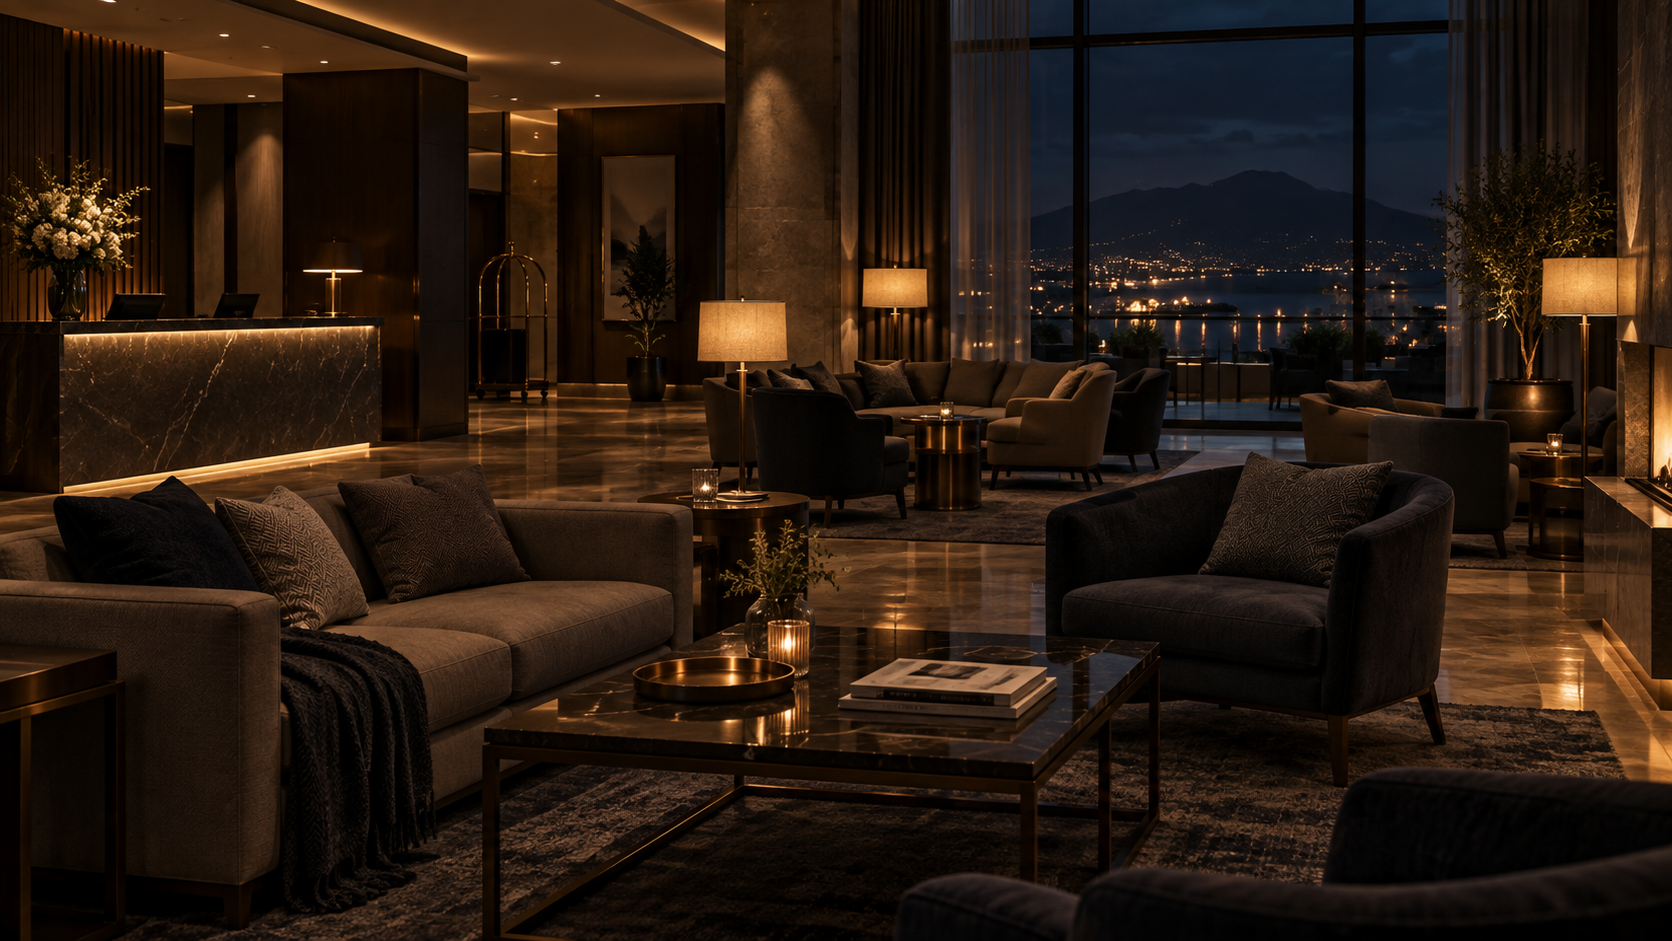
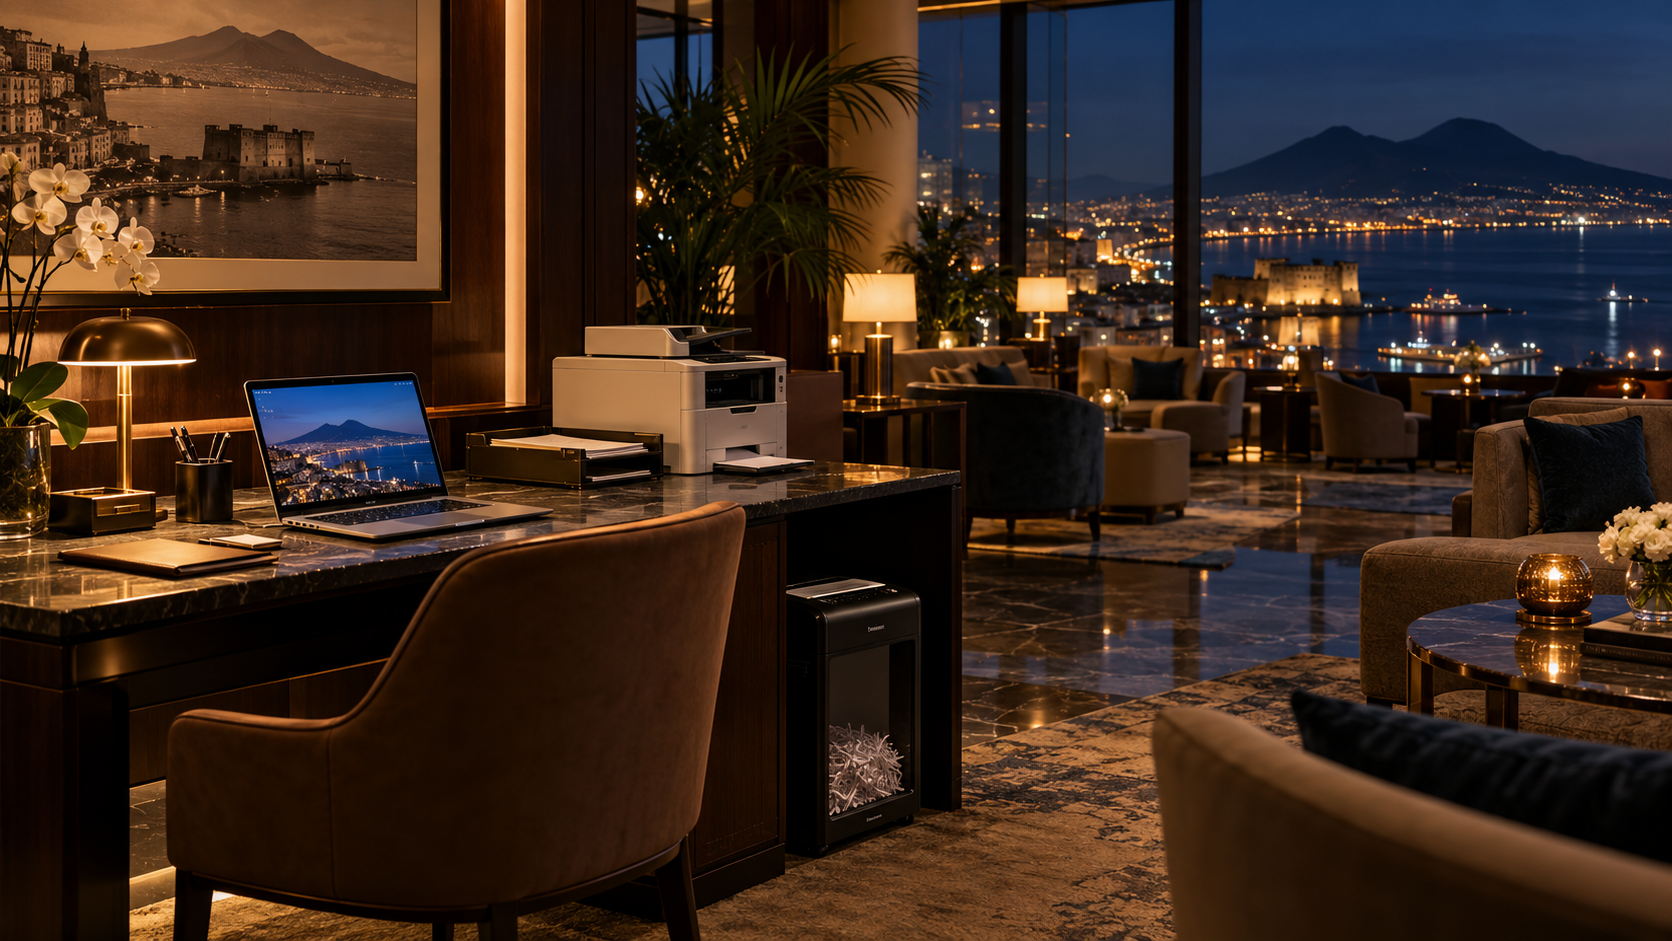
aggiornamento v6.1

diff --git a/js/app.js b/js/app.js
@@ -207,9 +207,13 @@
       const top = hasBox ? Number(h.y) : Number(h.y) - 4;
       const width = hasBox ? Number(h.w) : 6;
       const height = hasBox ? Number(h.h) : 8;
-      return `<button class="hotspot-region ${examined ? 'examined' : ''}" type="button" data-hotspot="${escapeHtml(h.id)}" style="left:${left}%;top:${top}%;width:${width}%;height:${height}%" aria-label="Individua ${escapeHtml(h.title || h.label)}">
+      const tipClasses = [
+        top < 18 ? 'tip-below' : '',
+        left < 12 ? 'tip-align-left' : '',
+        (left + width) > 88 ? 'tip-align-right' : ''
+      ].filter(Boolean).join(' ');
+      return `<button class="hotspot-region ${examined ? 'examined' : ''} ${tipClasses}" type="button" data-hotspot="${escapeHtml(h.id)}" style="left:${left}%;top:${top}%;width:${width}%;height:${height}%" aria-label="Individua ${escapeHtml(h.title || h.label)}">
         <span class="hotspot-frame" aria-hidden="true"></span>
-        <span class="hotspot-tooltip"><strong>${escapeHtml(h.title || 'Elemento da esaminare')}</strong><small>${examined ? 'Già esaminato · clicca per rileggere' : 'Clicca per osservare'}</small></span>
       </button>`;
     }).join('');
 
@@ -229,7 +233,7 @@
           <div><span class="eyebrow">${escapeHtml(location.name || location.label || 'LUOGO')}</span><h3>${escapeHtml(location.name || location.label || 'Luogo')}</h3><p>${escapeHtml(location.description || 'Osservate attentamente la scena.')}</p></div>
           <button id="revealHotspots" class="scene-search-help" type="button" aria-pressed="false"><span>⌕</span> Aiuto ricerca</button>
         </div>
-        <div id="sceneBox" class="scene-box scene-search-mode">${bg}<div class="scene-vignette"></div>${hotspots}<div class="scan-instruction"><span>⌖</span><strong>Esplora la scena</strong><small>Muovi il puntatore sugli oggetti</small></div></div>
+        <div id="sceneBox" class="scene-box scene-search-mode">${bg}<div class="scene-vignette"></div>${hotspots}<div id="sceneHoverTip" class="scene-hover-tip" role="status" aria-live="polite"></div><div class="scan-instruction"><span>⌖</span><strong>Esplora la scena</strong><small>Muovi il puntatore sugli oggetti</small></div></div>
       </section>
       <div id="sceneInspector" class="scene-inspector empty"><div><span class="eyebrow">ISPETTORE SCENA</span><h3>Nessun elemento selezionato</h3><p>Esplora la fotografia. Quando il cursore incontra un elemento investigabile, questo verrà evidenziato senza anticiparti ciò che nasconde.</p></div></div>
       <div id="sceneResult"></div>`;
@@ -237,7 +241,33 @@
     document.querySelectorAll('[data-location]').forEach(btn => btn.addEventListener('click', () => renderScene(btn.dataset.location)));
 
     const sceneBox = document.getElementById('sceneBox');
+    const hoverTip = document.getElementById('sceneHoverTip');
     const helpBtn = document.getElementById('revealHotspots');
+
+    const positionHoverTip = (btn, hotspot) => {
+      if (!sceneBox || !hoverTip || !btn || !hotspot) return;
+      const examined = GameState.data.examinedHotspots.includes(`${location.id}:${hotspot.id}`);
+      hoverTip.innerHTML = `<strong>${escapeHtml(hotspot.title || 'Elemento da esaminare')}</strong><small>${examined ? 'Già esaminato · clicca per rileggere' : 'Clicca per osservare'}</small>`;
+      hoverTip.classList.add('show');
+      requestAnimationFrame(() => {
+        const box = sceneBox.getBoundingClientRect();
+        const r = btn.getBoundingClientRect();
+        const tw = hoverTip.offsetWidth || 210;
+        const th = hoverTip.offsetHeight || 56;
+        const pad = 10;
+        const centerX = (r.left - box.left) + r.width / 2;
+        let left = centerX - tw / 2;
+        left = Math.max(pad, Math.min(left, box.width - tw - pad));
+        const above = (r.top - box.top) - th - 10;
+        const below = (r.bottom - box.top) + 10;
+        let top = above >= pad ? above : below;
+        if (top + th > box.height - pad) top = Math.max(pad, box.height - th - pad);
+        hoverTip.style.left = `${left}px`;
+        hoverTip.style.top = `${top}px`;
+        hoverTip.classList.toggle('below', above < pad);
+      });
+    };
+    const hideHoverTip = () => hoverTip?.classList.remove('show');
     helpBtn?.addEventListener('click', () => {
       const on = sceneBox.classList.toggle('reveal-search');
       helpBtn.setAttribute('aria-pressed', String(on));
@@ -245,8 +275,15 @@
       helpBtn.innerHTML = on ? '<span>×</span> Nascondi aiuto' : '<span>⌕</span> Aiuto ricerca';
     });
 
-    document.querySelectorAll('[data-hotspot]').forEach(btn => btn.addEventListener('click', () => {
+    document.querySelectorAll('[data-hotspot]').forEach(btn => {
       const hotspot = (location.hotspots || []).find(h => h.id === btn.dataset.hotspot);
+      if (!hotspot) return;
+      btn.addEventListener('pointerenter', () => positionHoverTip(btn, hotspot));
+      btn.addEventListener('focus', () => positionHoverTip(btn, hotspot));
+      btn.addEventListener('pointerleave', hideHoverTip);
+      btn.addEventListener('blur', hideHoverTip);
+      btn.addEventListener('click', () => {
+      hideHoverTip();
       if (!hotspot) return;
       document.querySelectorAll('.hotspot-region').forEach(x => x.classList.remove('selected'));
       btn.classList.add('selected');
@@ -279,7 +316,8 @@
         const tab = document.querySelector(`[data-location="${CSS.escape(location.id)}"] small`);
         if (tab) tab.textContent = `${count} esaminati`;
       });
-    }));
+      });
+    });
   }
 
   function renderEvidence() {

diff --git a/css/style.css b/css/style.css
@@ -366,3 +366,36 @@ body{background:linear-gradient(180deg,#080b10 0%,#070a0e 100%);}
   .scan-instruction{left:9px;bottom:9px;max-width:calc(100% - 18px);}
   .hotspot-region .hotspot-tooltip{max-width:155px;white-space:normal;}
 }
+
+.hotspot-region .hotspot-tooltip::after{
+  content:"";position:absolute;left:24px;top:100%;border:6px solid transparent;border-top-color:#4a5660;
+}
+.hotspot-region.tip-below .hotspot-tooltip{bottom:auto;top:calc(100% + 10px);transform:translateY(-4px);}
+.hotspot-region.tip-below:hover .hotspot-tooltip,.hotspot-region.tip-below:focus-visible .hotspot-tooltip,.hotspot-region.tip-below.selected .hotspot-tooltip{transform:translateY(0);}
+.hotspot-region.tip-below .hotspot-tooltip::after{top:auto;bottom:100%;border-top-color:transparent;border-bottom-color:#4a5660;}
+.hotspot-region.tip-align-left .hotspot-tooltip{left:-1px;transform:translateY(6px);}
+.hotspot-region.tip-align-left:hover .hotspot-tooltip,.hotspot-region.tip-align-left:focus-visible .hotspot-tooltip,.hotspot-region.tip-align-left.selected .hotspot-tooltip{transform:translateY(0);}
+.hotspot-region.tip-align-left .hotspot-tooltip::after{left:18px;transform:none;}
+.hotspot-region.tip-align-right .hotspot-tooltip{left:auto;right:-1px;transform:translateY(6px);}
+.hotspot-region.tip-align-right:hover .hotspot-tooltip,.hotspot-region.tip-align-right:focus-visible .hotspot-tooltip,.hotspot-region.tip-align-right.selected .hotspot-tooltip{transform:translateY(0);}
+.hotspot-region.tip-align-right .hotspot-tooltip::after{left:auto;right:18px;transform:none;}
+.hotspot-region.tip-below.tip-align-left .hotspot-tooltip,.hotspot-region.tip-below.tip-align-right .hotspot-tooltip{transform:translateY(-4px);}
+.hotspot-region.tip-below.tip-align-left:hover .hotspot-tooltip,.hotspot-region.tip-below.tip-align-left:focus-visible .hotspot-tooltip,.hotspot-region.tip-below.tip-align-left.selected .hotspot-tooltip,.hotspot-region.tip-below.tip-align-right:hover .hotspot-tooltip,.hotspot-region.tip-below.tip-align-right:focus-visible .hotspot-tooltip,.hotspot-region.tip-below.tip-align-right.selected .hotspot-tooltip{transform:translateY(0);}
+
+/* V6.1 — tooltip sempre contenuto nella fotografia */
+.scene-hover-tip{
+  position:absolute;z-index:20;left:10px;top:10px;
+  width:max-content;max-width:min(260px,calc(100% - 20px));
+  padding:.56rem .72rem;border:1px solid #58646f;border-radius:8px;
+  background:rgba(6,10,14,.96);backdrop-filter:blur(10px);
+  color:#f6f0e5;box-shadow:0 14px 34px rgba(0,0,0,.48);
+  opacity:0;visibility:hidden;pointer-events:none;transform:translateY(5px);
+  transition:opacity .12s ease,transform .12s ease,visibility .12s ease;
+  text-align:left;
+}
+.scene-hover-tip.show{opacity:1;visibility:visible;transform:translateY(0)}
+.scene-hover-tip strong{display:block;font-size:.8rem;line-height:1.25}
+.scene-hover-tip small{display:block;margin-top:.18rem;color:#9ca6af;font-size:.67rem;font-weight:600}
+/* I vecchi tooltip interni vengono disattivati: il tooltip flottante viene clamped via JS. */
+.hotspot-region>.hotspot-tooltip{display:none!important}
+@media(max-width:620px){.scene-hover-tip{max-width:min(210px,calc(100% - 20px));white-space:normal}}

diff --git a/README.md b/README.md
@@ -1,8 +1,12 @@
-# Archivio Investigativo — V6
+# Archivio Investigativo — V6.1
 
 Portale web cooperativo per casi investigativi, pensato per essere giocato da un gruppo su un unico PC, tablet o telefono.
 
-## Novità V6
+## Novità V6.1
+
+- Tooltip degli hotspot ora **sempre contenuti nella fotografia**: vengono posizionati dinamicamente e non possono più uscire/tagliarsi sopra o ai lati della scena.
+- Business lounge rifatta con una nuova immagine coerente: **portatile, stampante e distruggidocumenti sono realmente visibili** e gli hotspot coincidono con gli oggetti.
+- Testi della lounge aggiornati per corrispondere esattamente alla scena.
 
 - Scene fotografiche realistiche per Stanza 317, bar, corridoio e business lounge.
 - Nessun marker numerato visibile sulle scene.
